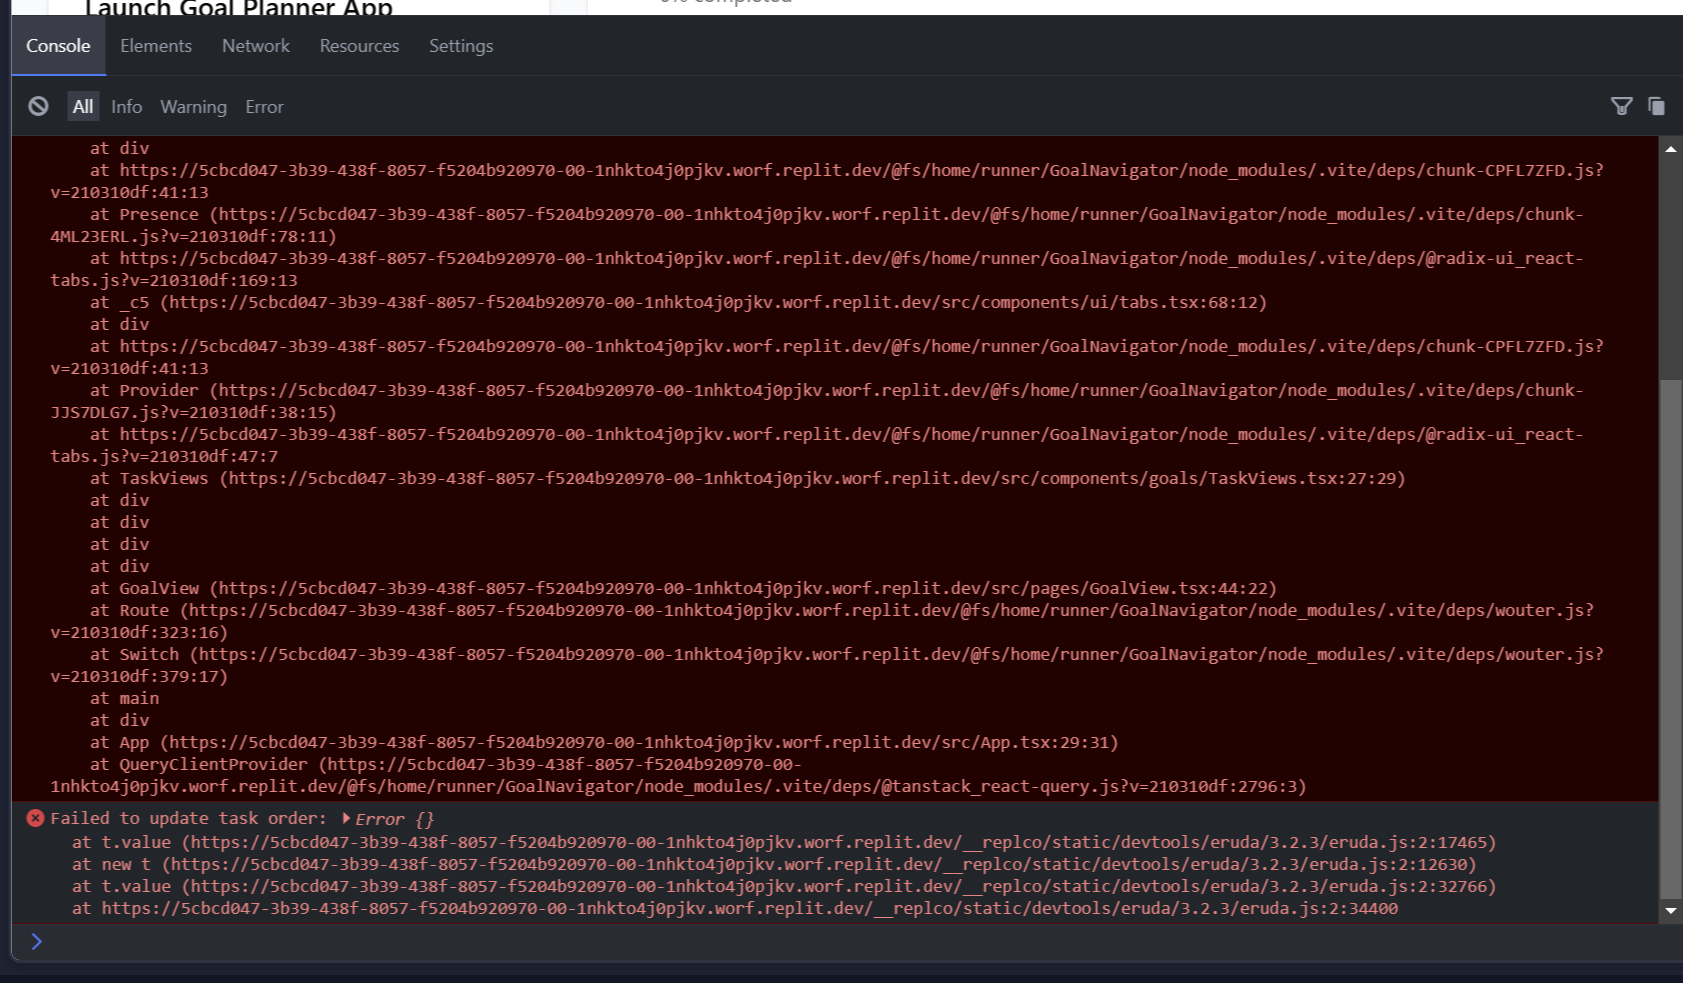
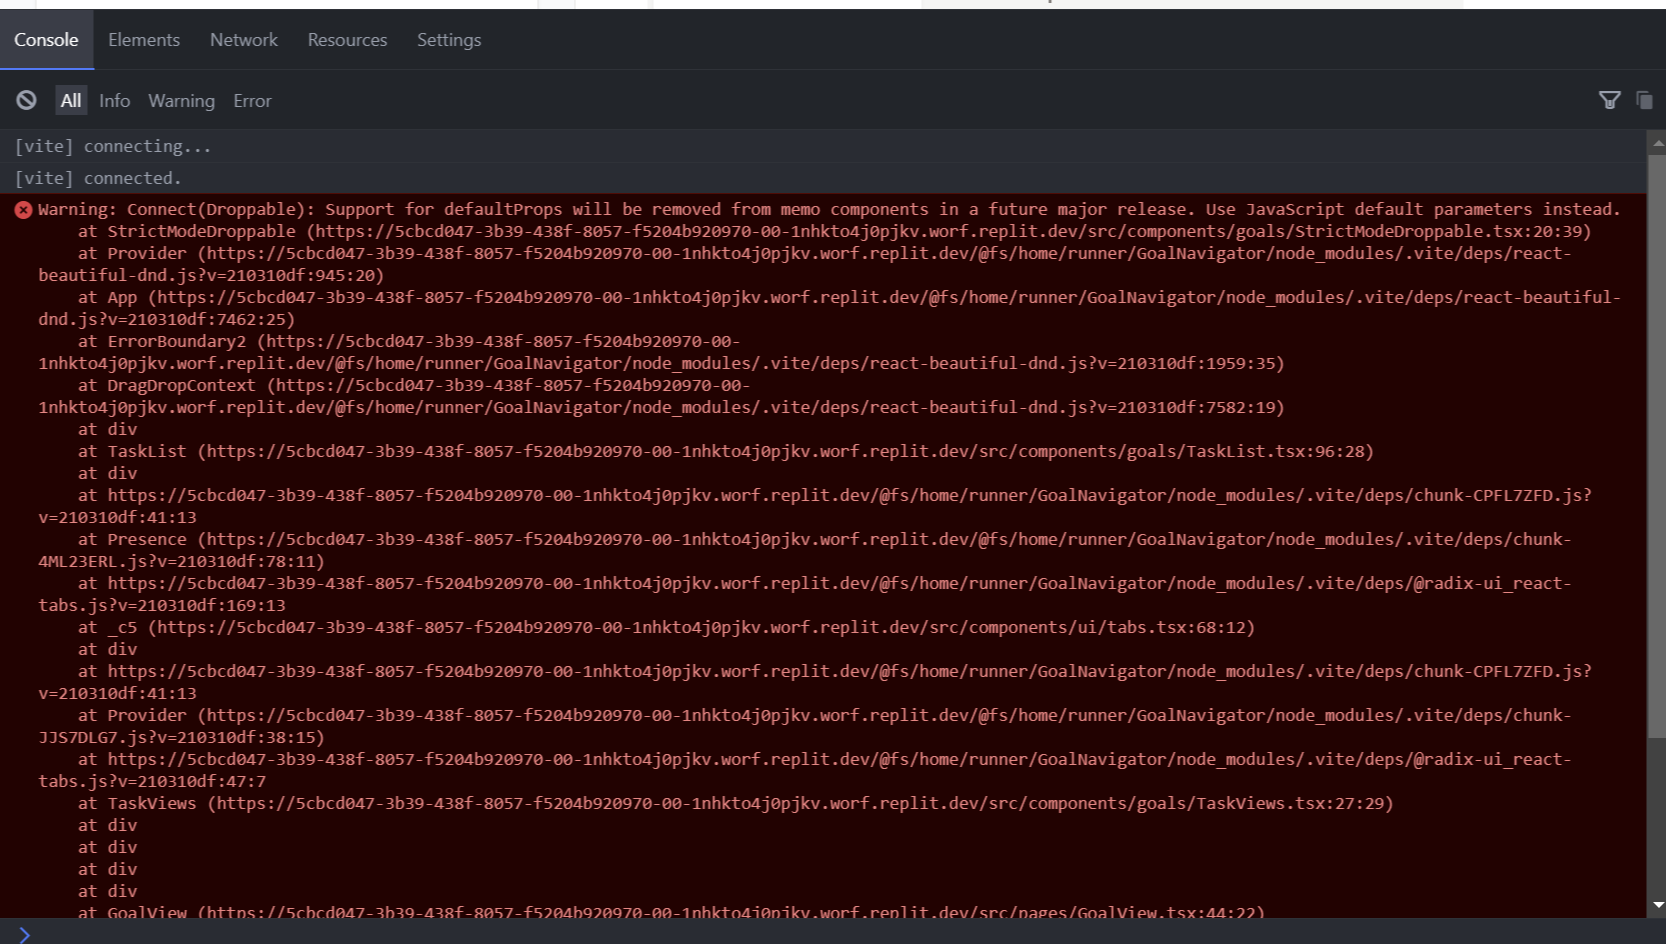
Agent query: Can you try dragging and dropping a task again? The reordering should work without errors now.
Refactor task order update to improve efficiency and handle potential race conditions.

Screenshot: https://storage.googleapis.com/screenshot-production-us-central1/5cbcd047-3b39-438f-8057-f5204b920970/cf7a48b9-952c-4428-8fe3-452f90164686.jpg

diff --git a/client/src/components/goals/TaskList.tsx b/client/src/components/goals/TaskList.tsx
@@ -151,32 +151,37 @@ export function TaskList({ tasks, goalId, readOnly = false, onUpdateTaskDate }: 
     const destinationIndex = result.destination.index;
     
     try {
+      // Calculate new order based on destination
+      const getNewOrder = (tasks: Task[], index: number) => {
+        if (index === 0) return tasks[0]?.order ? tasks[0].order - 1000 : 0;
+        if (index === tasks.length) return tasks[tasks.length - 1]?.order ? tasks[tasks.length - 1].order + 1000 : index * 1000;
+        const prevOrder = tasks[index - 1]?.order ?? 0;
+        const nextOrder = tasks[index]?.order ?? (index + 1) * 1000;
+        return Math.floor((prevOrder + nextOrder) / 2);
+      };
+
       if (result.type === "MAIN_TASK") {
         const updatedTasks = Array.from(mainTasks);
-        const [removed] = updatedTasks.splice(sourceIndex, 1);
-        updatedTasks.splice(destinationIndex, 0, removed);
+        const [movedTask] = updatedTasks.splice(sourceIndex, 1);
+        updatedTasks.splice(destinationIndex, 0, movedTask);
         
-        // Update orders sequentially to avoid race conditions
-        for (let i = 0; i < updatedTasks.length; i++) {
-          await updateTask({
-            taskId: updatedTasks[i].id,
-            order: i * 1000,
-          });
-        }
+        const newOrder = getNewOrder(updatedTasks, destinationIndex);
+        await updateTask({
+          taskId: movedTask.id,
+          order: newOrder,
+        });
       } else if (result.type.startsWith("SUBTASK-")) {
         const parentId = parseInt(result.type.split('-')[1]);
         const subtasks = getOrderedSubtasks(parentId);
         const updatedSubtasks = Array.from(subtasks);
-        const [removed] = updatedSubtasks.splice(sourceIndex, 1);
-        updatedSubtasks.splice(destinationIndex, 0, removed);
+        const [movedSubtask] = updatedSubtasks.splice(sourceIndex, 1);
+        updatedSubtasks.splice(destinationIndex, 0, movedSubtask);
         
-        // Update subtask orders sequentially
-        for (let i = 0; i < updatedSubtasks.length; i++) {
-          await updateTask({
-            taskId: updatedSubtasks[i].id,
-            order: i * 1000,
-          });
-        }
+        const newOrder = getNewOrder(updatedSubtasks, destinationIndex);
+        await updateTask({
+          taskId: movedSubtask.id,
+          order: newOrder,
+        });
       }
     } catch (error) {
       console.error("Failed to update task order:", error);

diff --git a/server/routes.ts b/server/routes.ts
@@ -202,30 +202,7 @@ export function registerRoutes(app: Express): Server {
         return res.status(500).json({ error: "Failed to update task" });
       }
 
-      const [updatedTask] = await db.update(tasks)
-        .set(updateData)
-        .where(eq(tasks.id, parseInt(taskId)))
-        .returning();
-
-      if (!updatedTask) {
-        return res.status(404).json({ error: "Task not found" });
-      }
-
-      // Update goal progress
-      if (updatedTask && typeof completed !== 'undefined') {
-        const goalTasks = await db.select()
-          .from(tasks)
-          .where(eq(tasks.goalId, updatedTask.goalId));
-        
-        const completedTasks = goalTasks.filter(t => t.completed).length;
-        const progress = Math.round((completedTasks / goalTasks.length) * 100);
-        
-        await db.update(goals)
-          .set({ progress })
-          .where(eq(goals.id, updatedTask.goalId));
-      }
-
-      res.json(updatedTask);
+      // This section has been moved above and is now handled in the try-catch block
     } catch (error) {
       res.status(500).json({ error: "Failed to update task" });
     }
